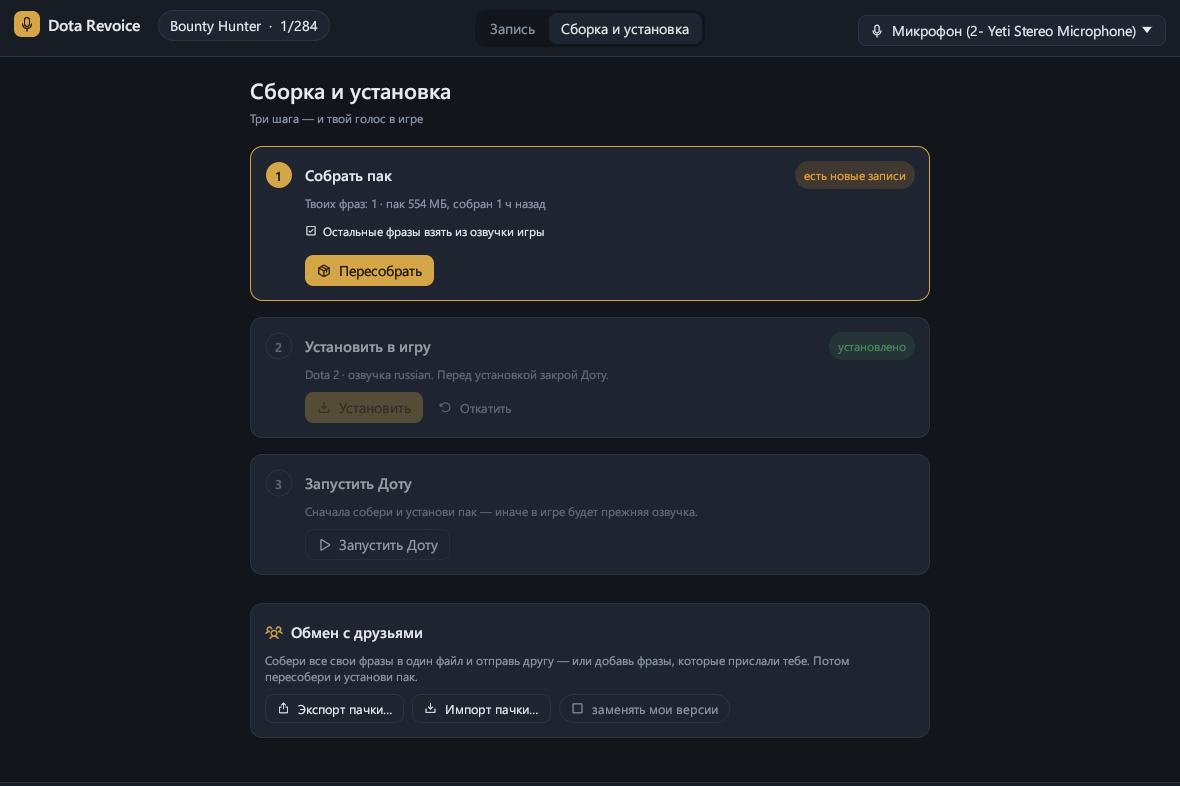
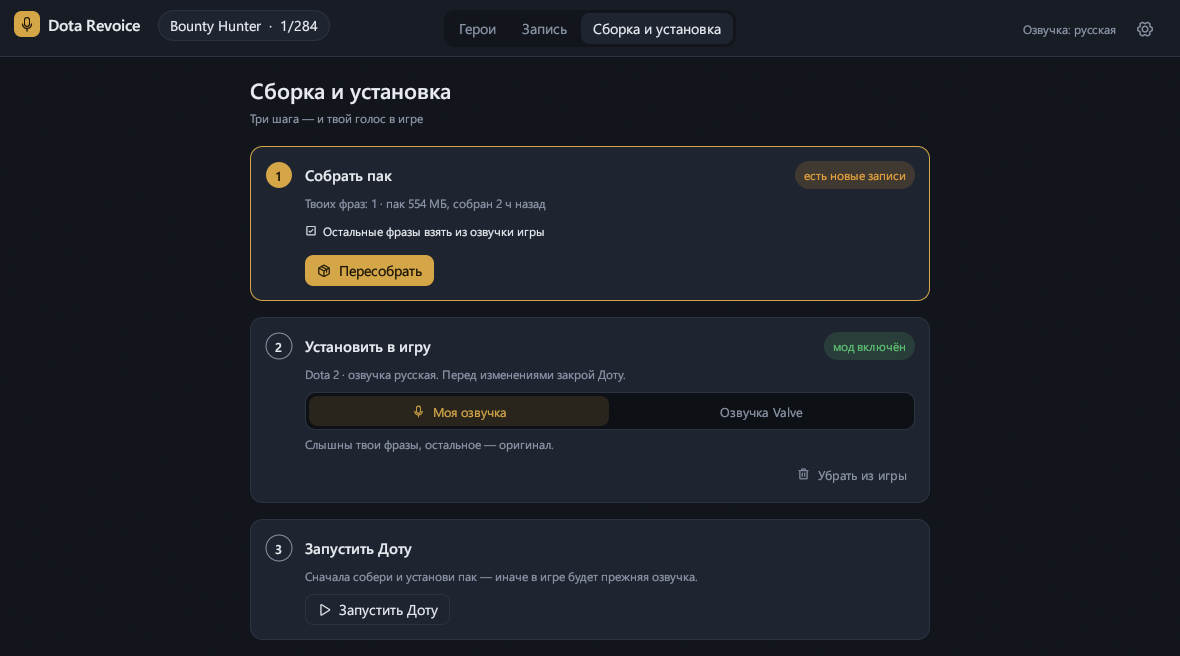
README: новые скриншоты и экран героев

diff --git a/README.md b/README.md
@@ -28,9 +28,11 @@
 
 ## Как это выглядит
 
+![Герои: все герои Доты с портретами, счётчик записанных фраз](docs/screenshots/heroes.jpg)
+
 ![Запись: оригинал и моя версия с обрезкой, громкостью и тоном](docs/screenshots/record.png)
 
-![Сборка и установка: три шага и обмен с друзьями](docs/screenshots/build.png)
+![Сборка и установка: три шага и переключатель «Моя озвучка / Озвучка Valve»](docs/screenshots/build.png)
 
 > Фанатский проект, не связан с Valve. Программа меняет только файлы в папке
 > языка озвучки (`game/dota_russian` и т.п.) и всё умеет откатывать.
